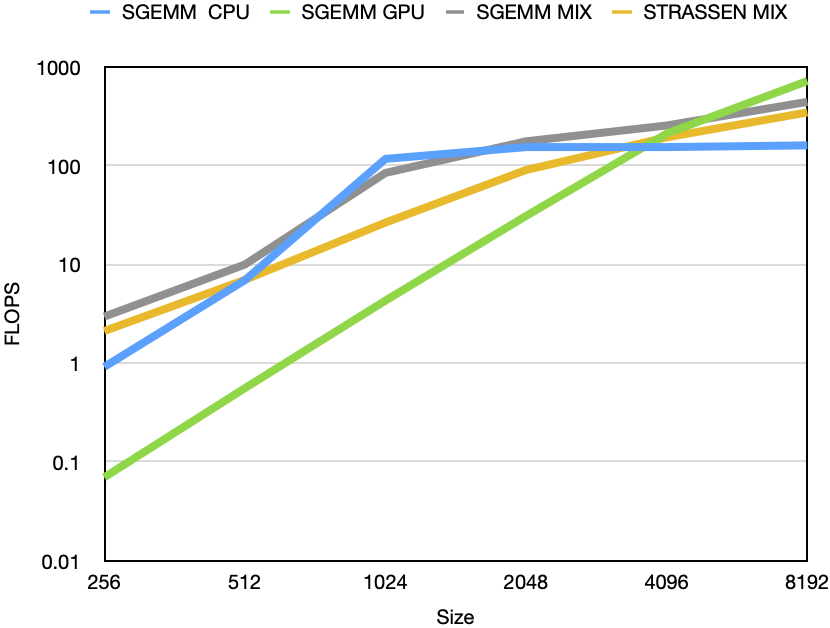
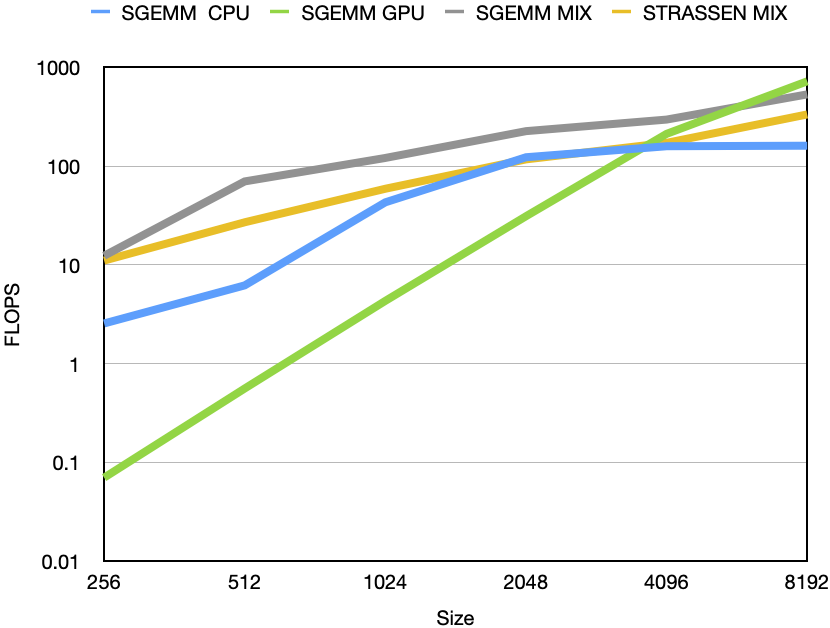
update the text and new benchmark with the tunning

diff --git a/algo/classic.h b/algo/classic.h
@@ -12,111 +12,6 @@
 #include <tbb/task_arena.h>
 #include <tbb/task_group.h>
 
-// template <class T> class classic_task_t : public tbb::task {
-// public:
-//  const tile_matrix<T> &A_, &B_;
-//  const uint32_t lbs_;
-//  tile_matrix<T> &C_;
-//  classic_task_t(const tile_matrix<T> &A, const tile_matrix<T> &B,
-//                 tile_matrix<T> &C, const uint32_t lbs)
-//      : A_(A), B_(B), C_(C), lbs_(lbs) {}
-//
-//  task *execute() {
-//    const uint32_t n = A_.rows();
-//
-//    if (lbs_ == n) { // limit blocksize
-//      C_ = std::move(mul(A_, B_));
-//    } else {
-//      const uint32_t k = A_.rows() / 2;
-//
-//      // allocate nothing careful size tile = 0
-//      tile_matrix<T> A11(k, k, lbs_);
-//      tile_matrix<T> A12(k, k, lbs_);
-//      tile_matrix<T> A21(k, k, lbs_);
-//      tile_matrix<T> A22(k, k, lbs_);
-//
-//      tile_matrix<T> B11(k, k, lbs_);
-//      tile_matrix<T> B12(k, k, lbs_);
-//      tile_matrix<T> B21(k, k, lbs_);
-//      tile_matrix<T> B22(k, k, lbs_);
-//
-//      // middle tile
-//      const uint32_t mt = A_.tile_rows() / 2;
-//
-//      copy_block(A11, A_, 0, 0);
-//      copy_block(A12, A_, 0, mt);
-//      copy_block(A21, A_, mt, 0);
-//      copy_block(A22, A_, mt, mt);
-//
-//      copy_block(B11, B_, 0, 0);
-//      copy_block(B12, B_, 0, mt);
-//      copy_block(B21, B_, mt, 0);
-//      copy_block(B22, B_, mt, mt);
-//
-//      tile_matrix<T> M1(k, k, lbs_);
-//      tile_matrix<T> M2(k, k, lbs_);
-//      tile_matrix<T> M3(k, k, lbs_);
-//      tile_matrix<T> M4(k, k, lbs_);
-//      tile_matrix<T> M5(k, k, lbs_);
-//      tile_matrix<T> M6(k, k, lbs_);
-//      tile_matrix<T> M7(k, k, lbs_);
-//      tile_matrix<T> M8(k, k, lbs_);
-//
-//      classic_task_t &child1 =
-//          *new (allocate_child()) classic_task_t(A11, B11, M1, lbs_);
-//      classic_task_t &child2 =
-//          *new (allocate_child()) classic_task_t(A11, B12, M2, lbs_);
-//      classic_task_t &child3 =
-//          *new (allocate_child()) classic_task_t(A21, B11, M3, lbs_);
-//      classic_task_t &child4 =
-//          *new (allocate_child()) classic_task_t(A21, B12, M4, lbs_);
-//
-//      classic_task_t &child5 =
-//          *new (allocate_child()) classic_task_t(A12, B21, M5, lbs_);
-//      classic_task_t &child6 =
-//          *new (allocate_child()) classic_task_t(A12, B22, M6, lbs_);
-//      classic_task_t &child7 =
-//          *new (allocate_child()) classic_task_t(A22, B21, M7, lbs_);
-//      classic_task_t &child8 =
-//          *new (allocate_child()) classic_task_t(A22, B22, M8, lbs_);
-//
-//      set_ref_count(9);
-//      spawn(child1);
-//      spawn(child2);
-//      spawn(child3);
-//      spawn(child4);
-//      spawn(child5);
-//      spawn(child6);
-//      spawn(child7);
-//
-//      spawn_and_wait_for_all(child8);
-//
-//      M1 += M5;
-//      M2 += M6;
-//      M3 += M7;
-//      M4 += M8;
-//
-//      copy_matrix(C_, M1, 0, 0);
-//      copy_matrix(C_, M2, 0, mt);
-//      copy_matrix(C_, M3, mt, 0);
-//      copy_matrix(C_, M4, mt, mt);
-//    }
-//    return nullptr;
-//  }
-//};
-//
-// template <class T>
-// auto classic(const tile_matrix<T> &A, const tile_matrix<T> &B,
-//             const uint32_t lbs = 64) {
-//  const uint32_t n = A.rows();
-//  // result
-//  tile_matrix<T> C(n, n, lbs);
-//  classic_task_t<T> &root =
-//      *new (tbb::task::allocate_root()) classic_task_t<T>(A, B, C, lbs);
-//  tbb::task::spawn_root_and_wait(root);
-//  return std::move(C);
-//}
-
 //
 // \brief classical algo with notation wikipedia, lbs indicate the limit block
 // size to stop the reccursive algo

diff --git a/README.md b/README.md
@@ -82,9 +82,11 @@ auto classic(const tile_matrix<T> &A, const tile_matrix<T> &B,
   const uint32_t k = A.rows() / 2;
   if (lbs == n) // limit blocksize end of the recursive process
     return std::move(mul(A, B));
-  // allocate new tile matrices twice smaller
-  tile_matrix<T> A11(k, k, lbs);
-  tile_matrix<T> B11(k, k, lbs);
+  tile_matrix<T> C(n, n, lbs);
+  // allocate new tile matrices twice smaller, not allocated
+  // move will do the job
+  tile_matrix<T> A11(k, k, lbs, false);
+  tile_matrix<T> B11(k, k, lbs, false);
   …
   // middle tile
   const uint32_t mt = A.tile_rows() / 2;
@@ -93,20 +95,17 @@ auto classic(const tile_matrix<T> &A, const tile_matrix<T> &B,
   copy_block(A11, A, 0, 0); 
   copy_block(B11, B, 0, 0);
 
-  // results of the recursive process
-  tile_matrix<T> M1(k, k, lbs);
-  tile_matrix<T> M5(k, k, lbs);
-
-
   // start the tasks
   tbb::task_group g;
-  // first task for M1, 7 more are needed for M2 to M8
-  g.run([&] { M1 = classic(A11, B11, lbs); });
-  …
-  // wait all taks
-  g.wait(); //
-  // recombine all matrix to get the results
-  M1 += M5;
+  g.run([&] {
+    tile_add_matrix(C, classic(A11, B11, lbs), 0, 0);
+    tile_add_matrix(C, classic(A12, B21, lbs), 0, 0);
+  });
+  ...
+  g.wait();
+
+  return std::move(C);
+
 ```
 
 The approach is similar for the [Strassen Implementation](https://github.com/timocafe/strassen/blob/main/algo/strassen.h).
@@ -140,14 +139,14 @@ The benchmark consists to perform multiple SGEMM EIGEN full threads (blue), SGEM
 Classical mix (CPU/GPU) grey and Strassen mix (CPU/GPU) orange. Results are reported in FLOPS (HPC’s metric) 
 and time to solution because the Strassen algorithm makes less « macho » flops. For clarity, only significative results are presented.
 The recursive process is performed only once, thus the tile size is equal to the original dimension divided by 2.
-The mix classical or mix Strassen show the best results for matrices size lower then 4096, beyond a pure GPU version is faster. 
+The mix classical or mix Strassen show the best results for matrices size lower then 4096, beyond a pure GPU version is faster, but not so much. 
 The noise for low value comes from the scheduler that does not reproduce the same pattern for every run. The number of CPU or GPU 
 SGEMM varies between each run. I was not able to beat the CUBLAS, however during the development I remark:
 
 <img src=https://github.com/timocafe/strassen/blob/main/images/flops.png align="center" height="318" width="410" />
 <img src="https://github.com/timocafe/strassen/blob/main/images/time.png" align="center" height="318" width="410" />
 
-* CudaMallocManaged is not stable in the asynchronous recursive multithread environment. It look likes, it is impossible to read a block of memory
+* CudaMallocManaged under Pascal is not stable in the asynchronous recursive multithread environment. It look likes, it is impossible to read block of memory concurrently 
 on the CPU and GPU simultaneously without a segfault. Therefore for the GPU, the old method is applied GPU memory buffers are [allocated](https://github.com/timocafe/strassen/blob/main/memory/matrix.h#L221),
 and a [data transfert](https://github.com/timocafe/strassen/blob/main/memory/matrix.h#L227) (here copy) is needed. It is an additional workload significative for low matrix size in the recursive process. Therefor I have lost all the advantages of the unify memory.
 
